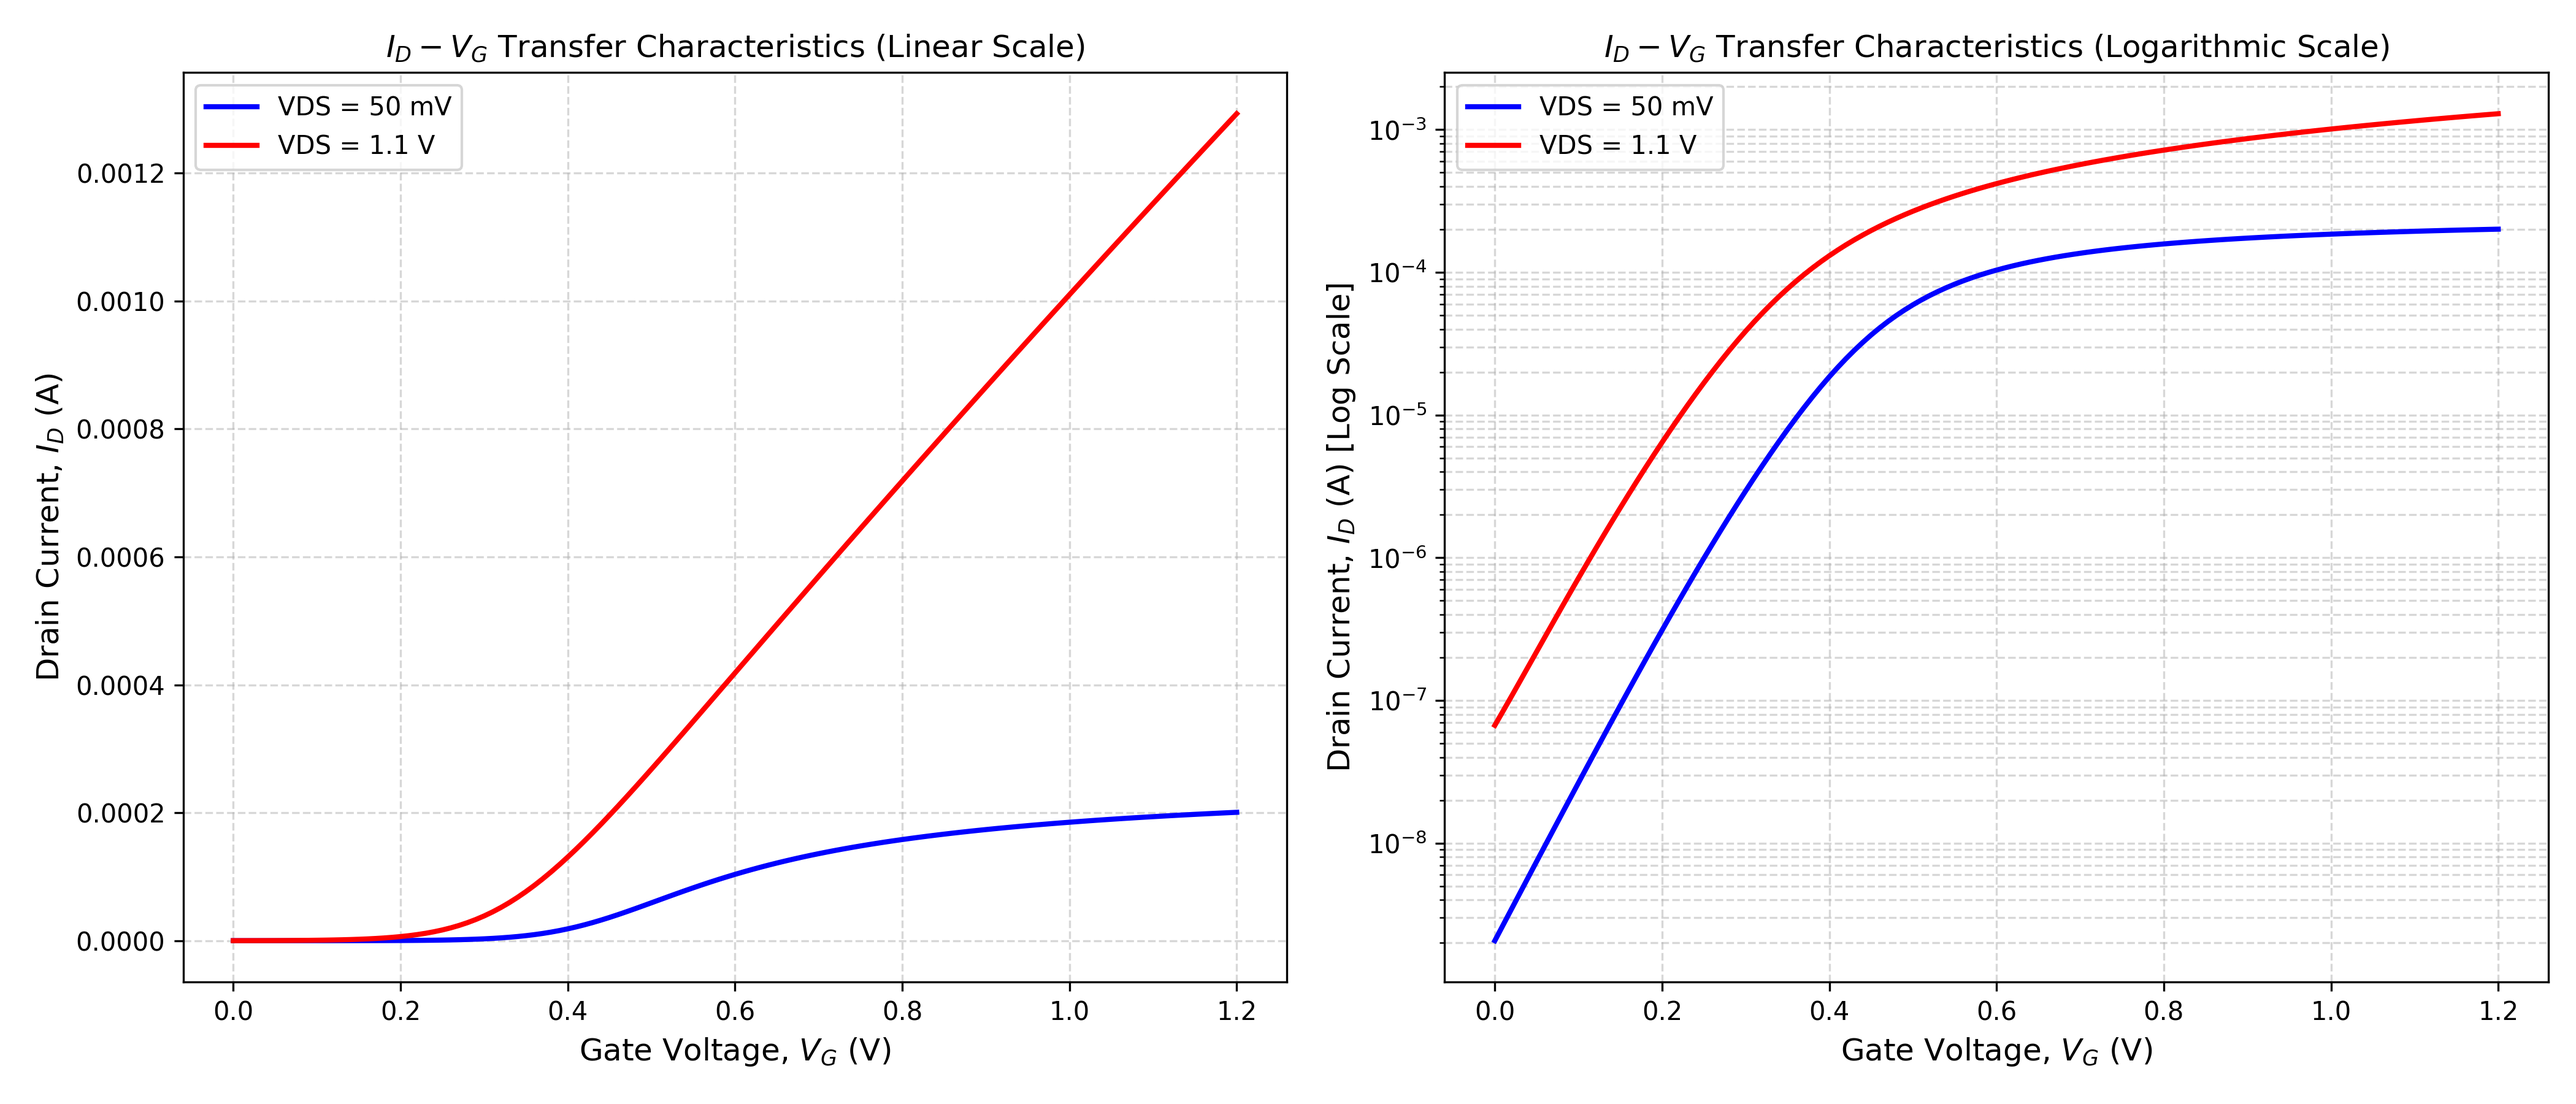
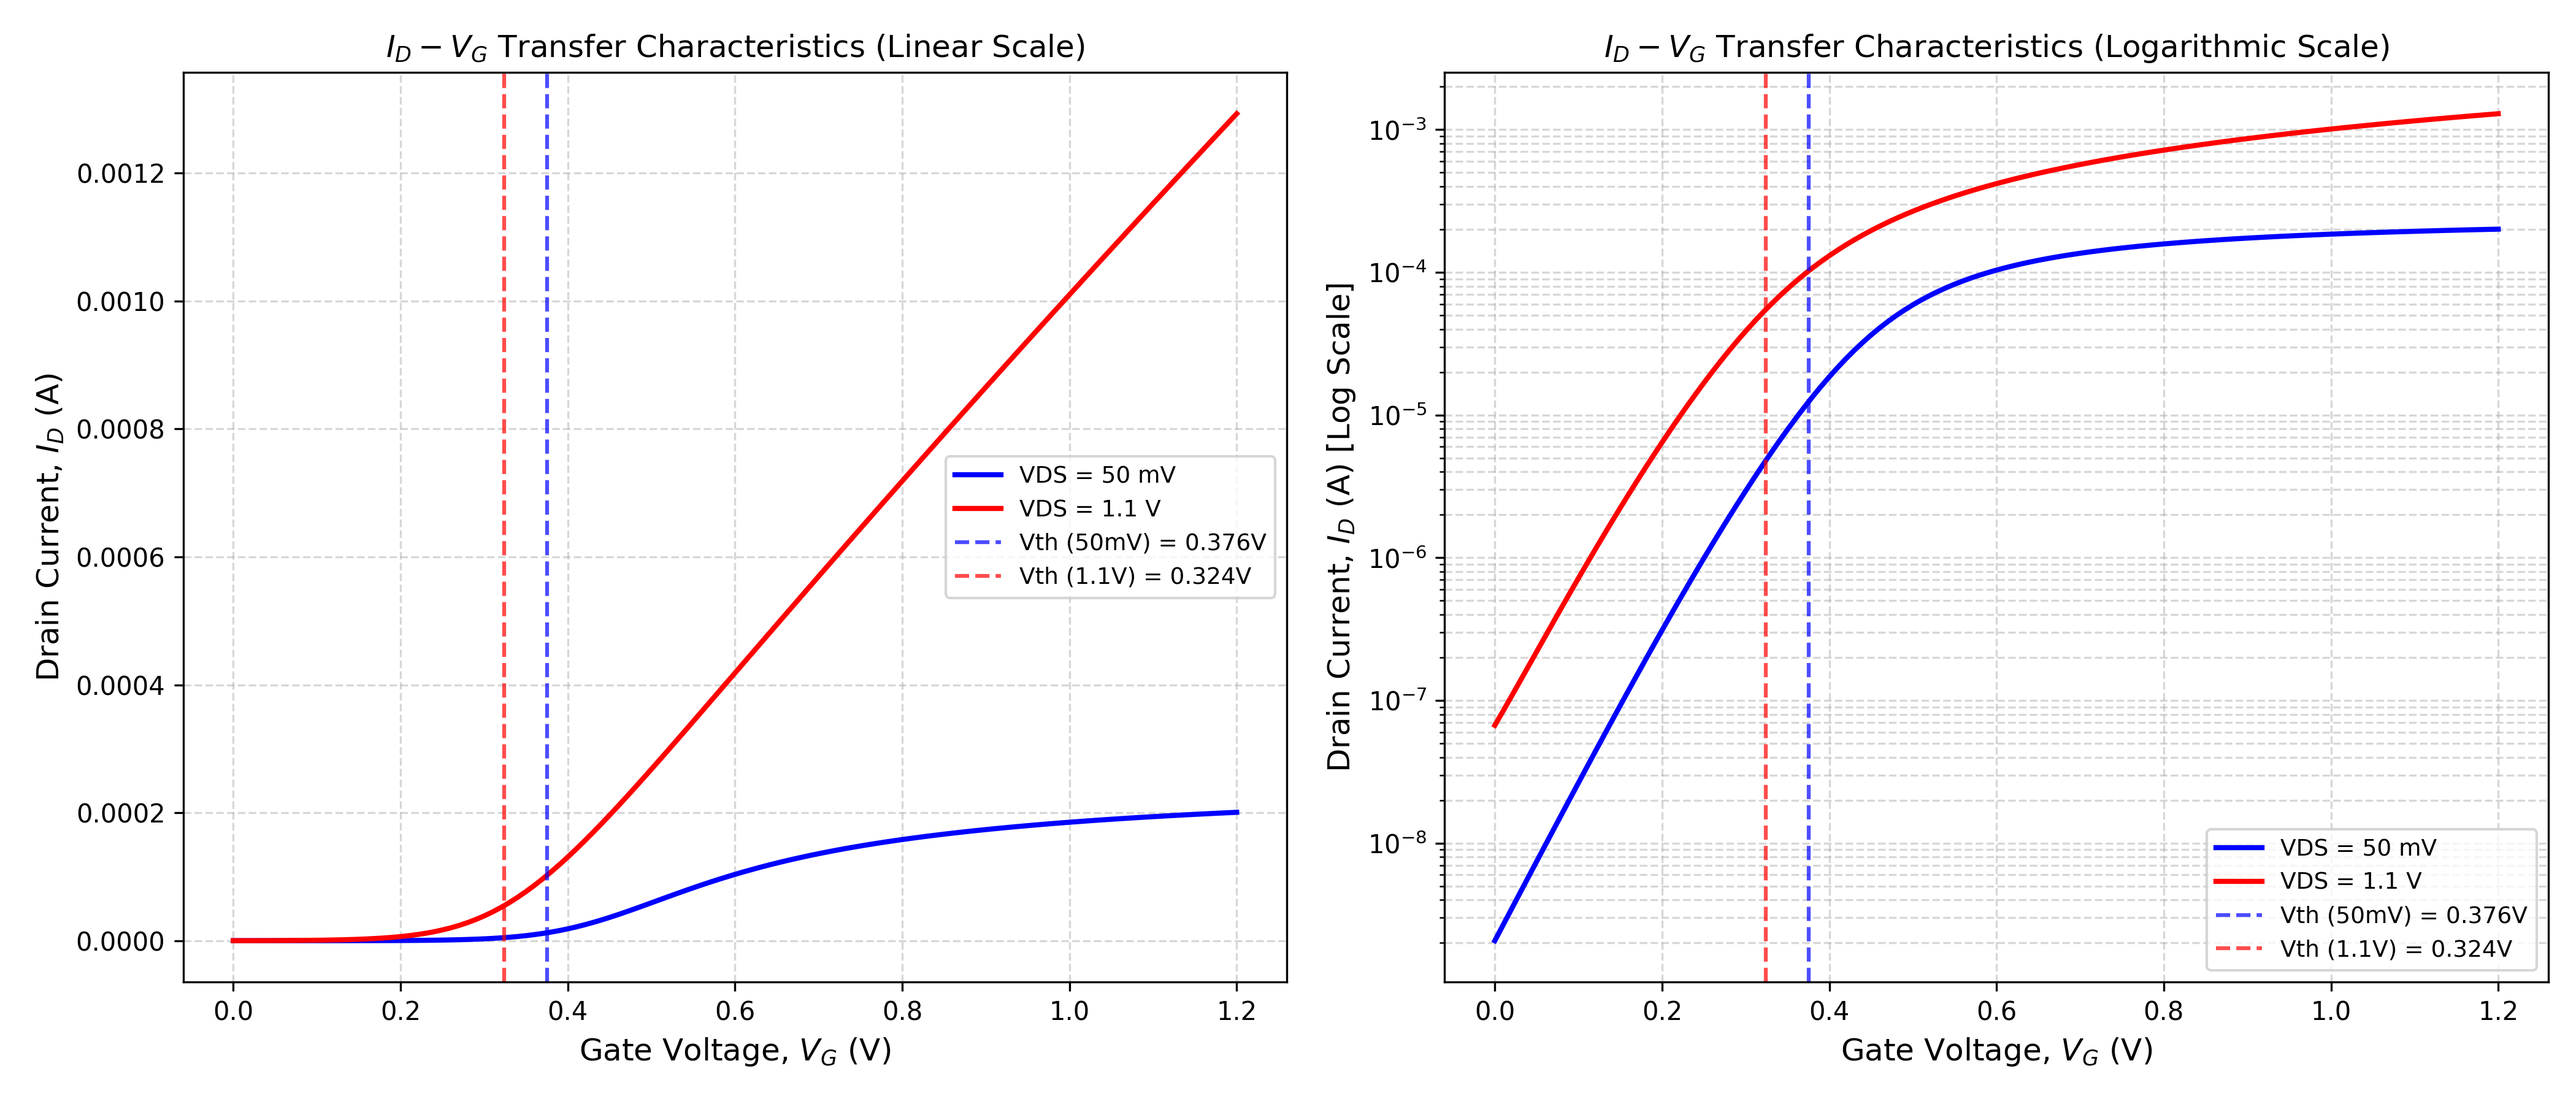
revised2

diff --git a/s2pyth.py b/s2pyth.py
@@ -7,32 +7,41 @@ df_50 = pd.read_csv('s2_50mv_data.csv', sep='\t')
 df_11 = pd.read_csv('s2_1_1_data.csv', sep='\t')
 
 
-# Function to extract VTH, ION, and IOFF
-def extract_metrics(df, vdd=1.1):
-  vg = df['V1']
-  id_val = df['Id(M1)']
+# Function to extract VTH, ION, IOFF, and tangent line data for visualization
+def extract_metrics_and_tangent(df, vdd=1.1):
+    vg = df['V1']
+    id_val = df['Id(M1)']
 
-  # IOFF at Vg = 0V
-  ioff = id_val.iloc[0]
+    # IOFF at Vg = 0V
+    ioff = id_val.iloc[0]
 
-  # ION at Vg = VDD (1.1V)
-  ion_idx = np.isclose(vg, vdd, atol=0.01)
-  ion = id_val[ion_idx].values[0] if np.any(ion_idx) else id_val.iloc[-1]
+    # ION at Vg = VDD (1.1V)
+    ion_idx = np.isclose(vg, vdd, atol=0.01)
+    ion = id_val[ion_idx].values[0] if np.any(ion_idx) else id_val.iloc[-1]
 
-  # Linear Extrapolation Method for VTH using max transconductance (gm)
-  gm = np.gradient(id_val, vg)
-  max_gm_idx = np.argmax(gm)
-  v_peak = vg.iloc[max_gm_idx]
-  id_peak = id_val.iloc[max_gm_idx]
-  gm_peak = gm[max_gm_idx]
+    # Linear Extrapolation Method for VTH using max transconductance (gm)
+    gm = np.gradient(id_val, vg)
+    max_gm_idx = np.argmax(gm)
+    v_peak = vg.iloc[max_gm_idx]
+    id_peak = id_val.iloc[max_gm_idx]
+    gm_peak = gm[max_gm_idx]
 
-  vth = v_peak - (id_peak / gm_peak)
-  return ioff, ion, vth
+    vth = v_peak - (id_peak / gm_peak)
+
+    # Generate tangent line points extending from Vth up to near the peak point
+    vg_tangent = np.linspace(vth, v_peak + 0.1, 100)
+    id_tangent = gm_peak * (vg_tangent - v_peak) + id_peak
+
+    return ioff, ion, vth, v_peak, id_peak, vg_tangent, id_tangent
 
 
-# Extract parameters
-ioff_50, ion_50, vth_50 = extract_metrics(df_50, 1.1)
-ioff_11, ion_11, vth_11 = extract_metrics(df_11, 1.1)
+# Extract parameters and tangent lines
+ioff_50, ion_50, vth_50, v_pk_50, id_pk_50, vg_t50, id_t50 = (
+    extract_metrics_and_tangent(df_50, 1.1)
+)
+ioff_11, ion_11, vth_11, v_pk_11, id_pk_11, vg_t11, id_t11 = (
+    extract_metrics_and_tangent(df_11, 1.1)
+)
 
 print(
     f'VDS = 50 mV -> IOFF: {ioff_50:.3e} A, ION: {ion_50:.3e} A, VTH:'
@@ -46,7 +55,7 @@ print(
 # 2. Plotting Transfer Characteristics
 fig, (ax1, ax2) = plt.subplots(1, 2, figsize=(14, 6))
 
-# Linear Scale Plot
+# --- Linear Scale Plot ---
 ax1.plot(
     df_50['V1'],
     df_50['Id(M1)'],
@@ -57,15 +66,54 @@ ax1.plot(
 ax1.plot(
     df_11['V1'], df_11['Id(M1)'], label='VDS = 1.1 V', color='red', linewidth=2
 )
+
+# Highlight max gm (inflection) points where tangents touch the curves
+ax1.scatter(
+    [v_pk_50],
+    [id_pk_50],
+    color='purple',
+    marker='o',
+    s=40,
+    edgecolors='black',
+    zorder=5,
+)
+ax1.scatter(
+    [v_pk_11],
+    [id_pk_11],
+    color='darkorange',
+    marker='o',
+    s=40,
+    edgecolors='black',
+    zorder=5,
+)
+
+# Tangent lines with distinct contrasting colors and Vth values in legend
+ax1.plot(
+    vg_t50,
+    id_t50,
+    linestyle='--',
+    color='purple',
+    linewidth=1.8,
+    label=f'$V_{{th}}$ (50 mV) = {vth_50:.3f} V',
+)
+ax1.plot(
+    vg_t11,
+    id_t11,
+    linestyle='--',
+    color='darkorange',
+    linewidth=1.8,
+    label=f'$V_{{th}}$ (1.1 V) = {vth_11:.3f} V',
+)
+
 ax1.set_xlabel('Gate Voltage, $V_G$ (V)', fontsize=12)
 ax1.set_ylabel('Drain Current, $I_D$ (A)', fontsize=12)
 ax1.set_title(
     '$I_D - V_G$ Transfer Characteristics (Linear Scale)', fontsize=12
 )
 ax1.grid(True, linestyle='--', alpha=0.5)
-ax1.legend(fontsize=10)
+ax1.legend(fontsize=10, loc='upper left')
 
-# Logarithmic Scale Plot
+# --- Logarithmic Scale Plot ---
 ax2.plot(
     df_50['V1'],
     df_50['Id(M1)'],
@@ -76,6 +124,7 @@ ax2.plot(
 ax2.plot(
     df_11['V1'], df_11['Id(M1)'], label='VDS = 1.1 V', color='red', linewidth=2
 )
+
 ax2.set_xlabel('Gate Voltage, $V_G$ (V)', fontsize=12)
 ax2.set_ylabel('Drain Current, $I_D$ (A) [Log Scale]', fontsize=12)
 ax2.set_title(
@@ -83,8 +132,8 @@ ax2.set_title(
 )
 ax2.set_yscale('log')
 ax2.grid(True, which='both', linestyle='--', alpha=0.5)
-ax2.legend(fontsize=10)
+ax2.legend(fontsize=10, loc='lower right')
 
 plt.tight_layout()
-plt.savefig('transfer_characteristics.png', dpi=300)
+plt.savefig('s2.png', dpi=600)
 plt.show()
